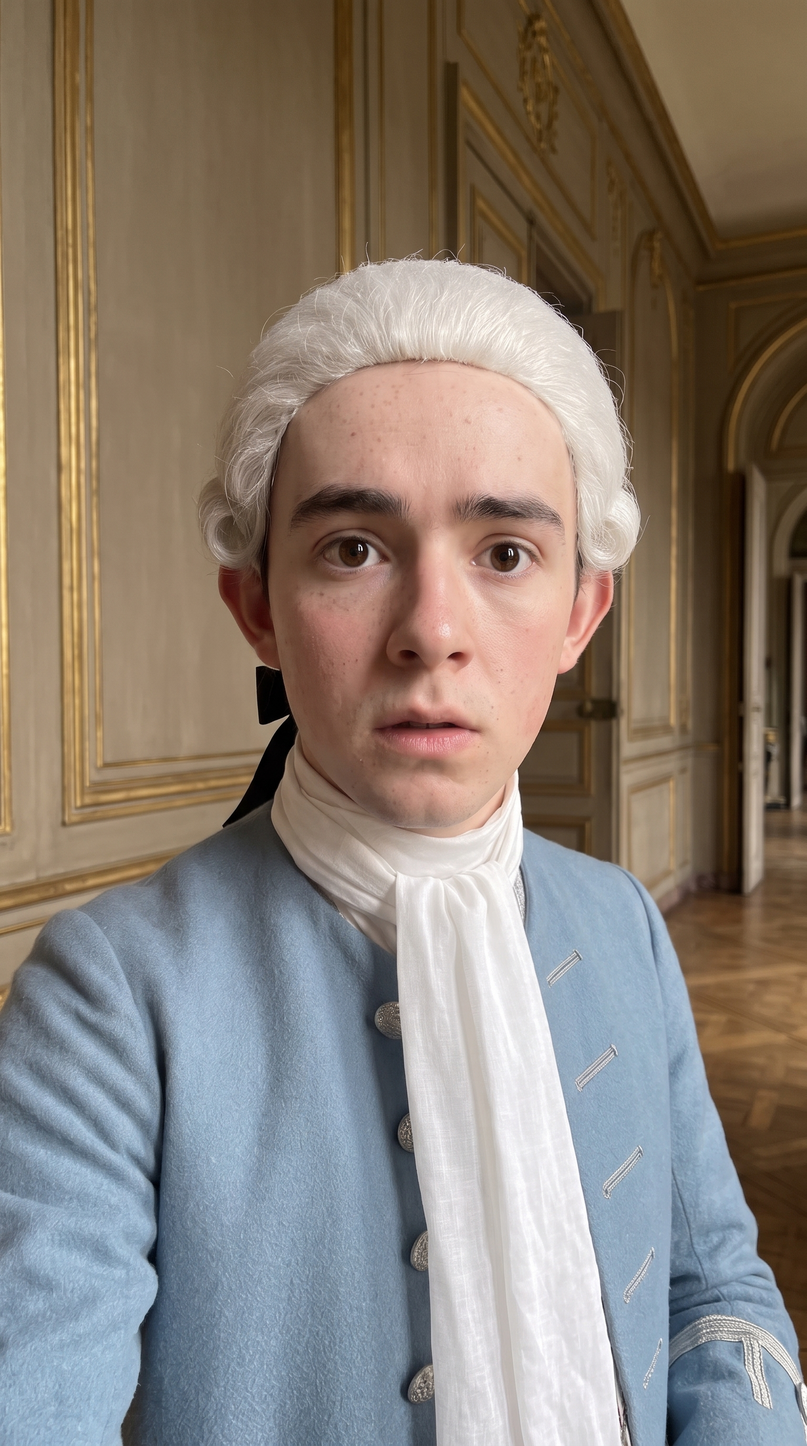
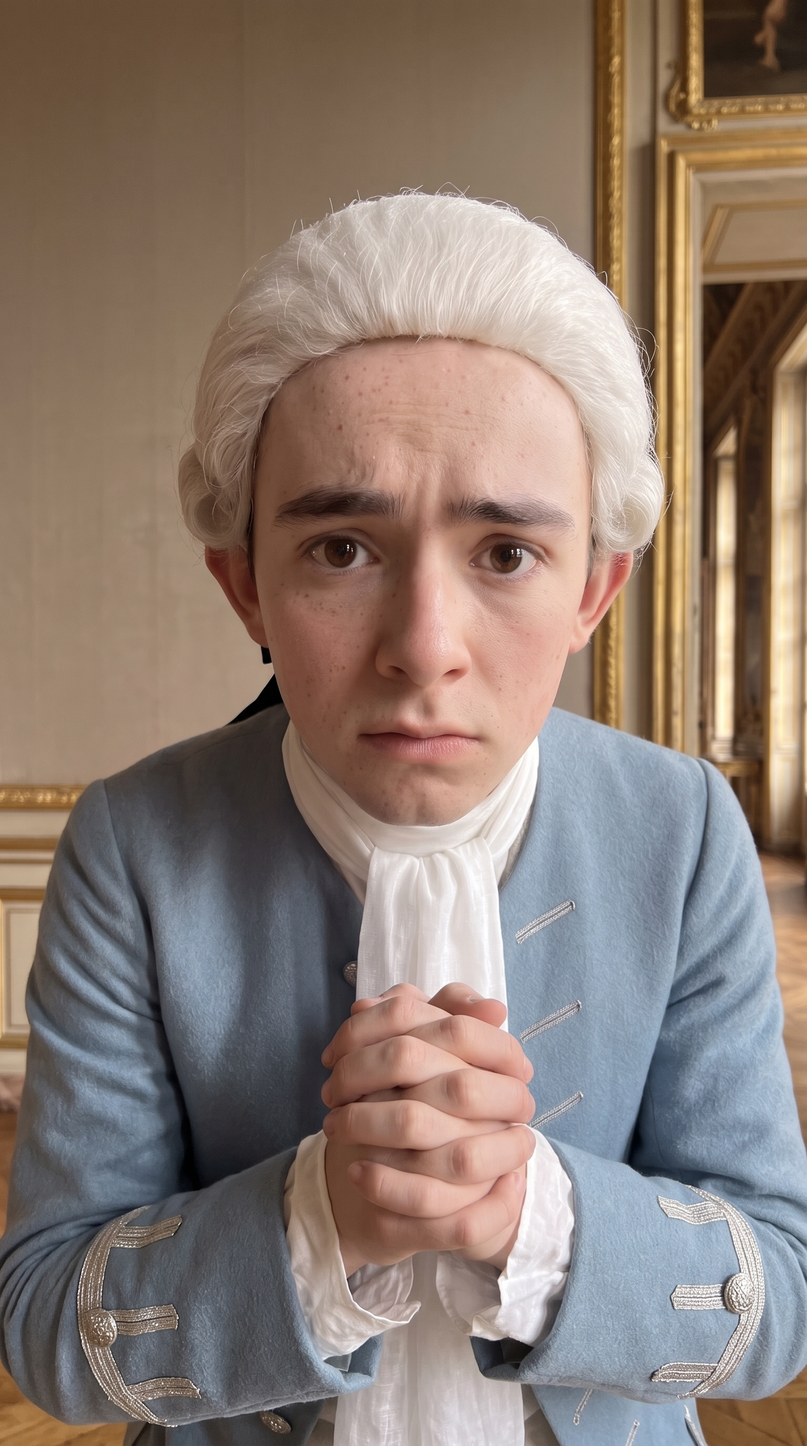
Marcel: apologetic, timid, terrified emotions redone with stronger acting
Claude-Session: https://claude.ai/code/session_01KcWrBtThWhQ2oQ8XkNDupx

diff --git a/map_shorts/history_channel/louis_ep1/gen_marcel_sheet.py b/map_shorts/history_channel/louis_ep1/gen_marcel_sheet.py
@@ -24,10 +24,10 @@ SC = {
  "e1_neutral": "Close front portrait, head and shoulders, neutral calm face, looking at the lens.",
  "e2_worried": "Close front portrait, head and shoulders, a worried frown, eyebrows pulled together, lips pressed.",
  "e3_alarmed": "Close front portrait, head and shoulders, alarmed, eyes wide, mouth open to cry out.",
- "e4_apologetic": "Close front portrait, head and shoulders, apologetic, head slightly lowered, eyes looking up from under the brows, a small wince.",
+ "e4_apologetic": "Close front portrait, head and shoulders, clearly APOLOGETIC and ashamed: the head bowed forward, the eyes looking up at the lens from under raised brows with the inner ends pulled up, the lips pressed into a pained wince, shoulders hunched, both hands clasped in front of his chest in a pleading gesture.",
  "e5_eager": "Close front portrait, head and shoulders, eager and out of breath, eyebrows raised, mouth slightly open as if announcing something.",
- "e6_timid": "Close front portrait, head and shoulders, timid, eyes lowered, trying to speak, lips slightly parted.",
- "e7_terrified": "Close front portrait, head and shoulders, terrified, eyes very wide, mouth tight, a flinch as if someone shouted his name.",
+ "e6_timid": "Close front portrait, head and shoulders, clearly TIMID and shy: the chin tucked in, the shoulders drawn up, the eyes cast down and to the side, the mouth slightly open as if he wants to speak but dares not, a tense small frown.",
+ "e7_terrified": "Close front portrait, head and shoulders, clearly TERRIFIED: the eyes extremely wide with the whites showing all around, the eyebrows raised high, the mouth open in a silent gasp, the head pulled back and the whole body recoiled as if someone had screamed his name.",
  "e8_relieved": "Close front portrait, head and shoulders, relieved, a shy small smile, shoulders relaxed.",
 }
 urls = {}

diff --git a/map_shorts/history_channel/marcel_card/README.md b/map_shorts/history_channel/marcel_card/README.md
@@ -23,3 +23,5 @@ For a video with Marcel the first frame carries him; the video prompt repeats th
 ## Full card generated 30.10 (owner "да"; 16 x $0.04 = $0.64 by usage.cost): sheet_<id>.jpg, contact sheet marcel_sheet_all16.jpg
 Angles: a1_left34, a2_right34, a3_profile_left, a4_profile_right, a5_back, a6_from_below, a7_from_above, a8_bow_side. Emotions: e1_neutral, e2_worried, e3_alarmed, e4_apologetic, e5_eager, e6_timid, e7_terrified, e8_relieved.
 INSPECTED by me on the contact sheet: the same man in all 16 (round freckled face, dark brown eyes, thick brows, sticking-out ears, small chin), the same wig with the black ribbon and the sky-blue coat; wall light and corridor are plain, so the face is the only variable. Strong: e3_alarmed, e5_eager, e8_relieved, profiles. Weak (soft): e4_apologetic and e6_timid read almost neutral; e7_terrified is mild; a5_back shows a half-turned head. Use: the first two references for any prompt with Marcel = marcel_front.jpg + the sheet image closest to the needed angle/emotion (e.g. e3_alarmed for "Pardon, Sire!", a8_bow_side for bows). NOT APPROVED by the owner yet.
+
+## Emotions redone 30.10 (owner: the page must be exactly "apologetic, timid, terrified"; 3 x $0.04 = $0.12): sheet_e4_apologetic, sheet_e6_timid, sheet_e7_terrified replaced (old ones kept as *_v1.jpg), comparison marcel_emotions_fix.jpg. INSPECTED: same man in all three. e4 apologetic: head bowed, brows pulled up, pained mouth, hands clasped in a pleading gesture: strong. e6 timid: eyes down to the side, brows tense, mouth slightly open: clearly more timid than v1. e7 terrified: eyes very wide, brows high, open mouth, head pulled back: strong. The three-quarter reference (marcel_three_quarter.jpg, almost frontal) is unchanged.

diff --git a/map_shorts/history_channel/spend_ledger.md b/map_shorts/history_channel/spend_ledger.md
@@ -73,3 +73,4 @@
 | 30.10 | Maitre Benoit the cook: front image, Nano Banana 2.1 | $0.04 (usage.cost) |
 | 30.10 | Cook front redo with a period cap, Nano Banana 2.1 | $0.04 (usage.cost) |
 | 30.10 | Cook front v3 (no thumb, fuller double chin), Nano Banana 2.1 | $0.04 (usage.cost) |
+| 30.10 | Marcel emotions redo (apologetic, timid, terrified), Nano Banana 2.1 | $0.12 (3 x 0.04) |
